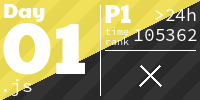
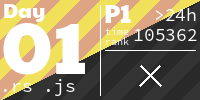
15/1/1 tiles

diff --git a/README.md b/README.md
@@ -239,9 +239,9 @@
   <img src=".aoc_tiles/tiles/2019/01.png" width="161px">
 </a>
 <h1 align="center">
-  2015 - 1 ⭐ - JavaScript
+  2015 - 1 ⭐ - JavaScript/Rust
 </h1>
-<a href="BitBurnerAOC/Data/2015/1/main.js">
+<a href="aoc-2015/src/day1.rs">
   <img src=".aoc_tiles/tiles/2015/01.png" width="161px">
 </a>
 <!-- AOC TILES END -->
